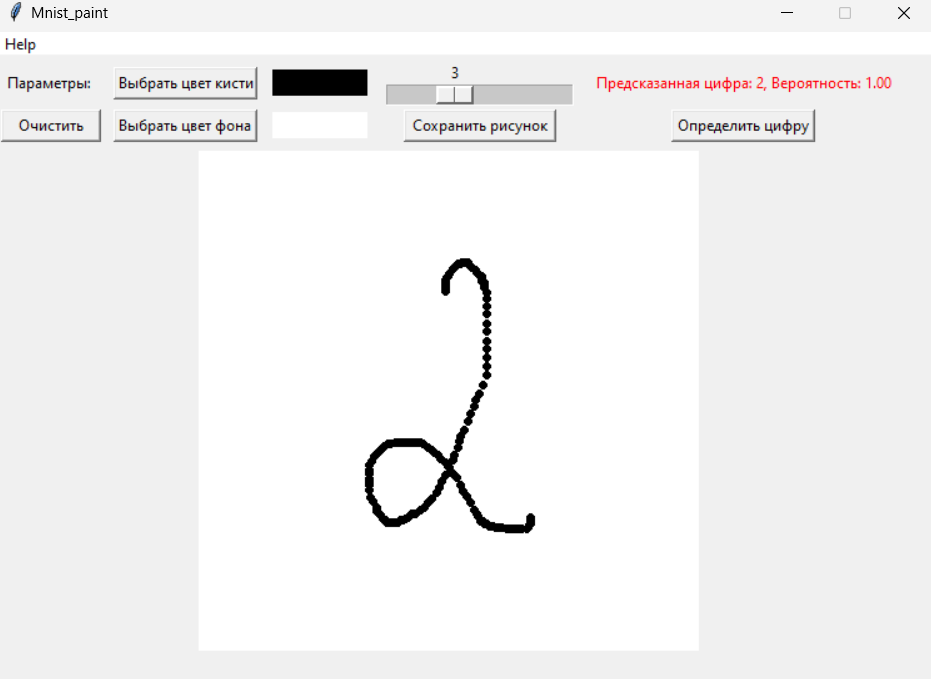
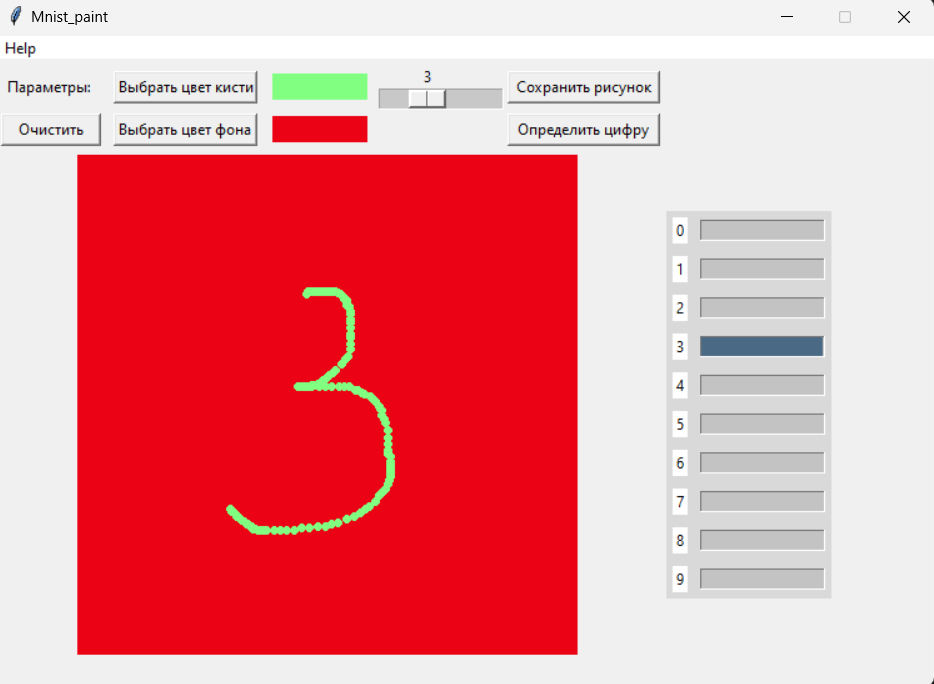
cosmetics

diff --git a/paint.py b/paint.py
@@ -1,5 +1,6 @@
 from tkinter import colorchooser, messagebox
 import tkinter as tk
+from tkinter import ttk
 from PIL import Image, ImageDraw, ImageTk
 from random import randint
 from tensorflow.keras.models import load_model
@@ -18,11 +19,12 @@ class DrawingApp:
         self.root.geometry('750x500')
         self.root.resizable(0, 0)
         root.option_add("*tearOff", False)
+        ttk.Style().theme_use("alt")
 
         self.brush_size = tk.IntVar(value=10)
         self.color = tk.StringVar(value='black')
         self.color_canvas = tk.StringVar(value='white')
-
+        self.progress_bars = []
         self.canvas = tk.Canvas(root, bg='white', width=400, height=400)
         self.canvas.grid(row=2, column=0, columnspan=7, padx=5, pady=5)
         self.canvas.bind('<B1-Motion>', self.draw)
@@ -60,6 +62,22 @@ class DrawingApp:
 
     def init_ui(self):
         tk.Label(self.root, text='Параметры: ').grid(row=0, column=0, padx=6)
+        self.progress_frame = ttk.Frame(self.root)
+        self.progress_frame.grid(row=2, column=7, padx=5, pady=5)
+        for i in range(10):
+            progress_bar = ttk.Progressbar(
+                self.progress_frame, length=100, mode='determinate')
+            progress_bar.grid(row=i, column=4, padx=5, pady=5)
+            progress_bar['value'] = 0
+            progress_bar['maximum'] = 100
+            progress_bar['orient'] = 'horizontal'
+            progress_bar['style'] = 'TProgressbar.Horizontal.TProgressbar'
+            self.progress_bars.append(progress_bar)
+
+        for i in range(10):
+            label = tk.Label(self.progress_frame, text=str(i), bg='white')
+            label.grid(row=i, column=3, padx=5, pady=5)
+            self.progress_bars.append(label)
 
         tk.Button(self.root, text='Выбрать цвет кисти', width=15,
                   command=self.choose_color).grid(row=0, column=1, padx=6)
@@ -74,20 +92,16 @@ class DrawingApp:
         self.color_canvas_lab.grid(row=1, column=2, padx=6)
 
         tk.Scale(self.root, variable=self.brush_size, from_=2, to=5,
-                 command=self.select, orient=tk.HORIZONTAL, length=150).grid(row=0, column=3, padx=6)
+                 command=self.select, orient=tk.HORIZONTAL, length=100).grid(row=0, column=3)
 
         tk.Button(self.root, text='Очистить', width=10,
                   command=self.clear_canvas).grid(row=1, column=0)
 
         tk.Button(self.root, text='Сохранить рисунок', width=16,
-                  command=self.save_image).grid(row=1, column=3)
+                  command=self.save_image).grid(row=0, column=4)
 
-        tk.Button(self.root, text='Определить цифру', width=15,
+        tk.Button(self.root, text='Определить цифру', width=16,
                   command=self.predict_digit).grid(row=1, column=4)
-
-        self.prediction_label = tk.Label(
-            self.root, text="Предсказанная цифра: ")
-        self.prediction_label.grid(row=0, column=4, padx=6)
 
     def draw(self, event):
         brush_size = self.brush_size.get()
@@ -213,23 +227,25 @@ class DrawingApp:
         self.image1.save(filename)
         predicted_digit, max_probability = self.rec_digit(filename)
         if predicted_digit is not None:
-            max_index = np.argmax(max_probability)
-            max_probability = max_probability[max_index]
-            self.prediction_label.config(
-                text=f"Предсказанная цифра: {predicted_digit}, Вероятность: {max_probability:.2f}", fg="red")
+            for i, probability in enumerate(max_probability):
+                normalized_probability = int(probability * 100)
+                self.progress_bars[i]['value'] = normalized_probability
         os.remove(filename)
 
     def clear_canvas(self):
         self.canvas.delete('all')
         self.canvas['bg'] = 'white'
         self.draw_img.rectangle((0, 0, 400, 400), fill='white')
-        self.prediction_label.config(text="Предсказанная цифра: ", fg="black")
         self.color_lab['bg'] = 'black'
         self.color_canvas_lab['bg'] = 'white'
+        self.color = tk.StringVar(value='black')
+        for i in range(10):
+            self.progress_bars[i]['value'] = 0
 
     def save_image(self):
         filename = f'image_{randint(0, 1000)}.png'
-        self.image1.save(filename)
+        with open(filename, 'wb') as f:
+            self.image1.save(f)
         messagebox.showinfo(
             'Сохранение', f'Сохранено под названием {filename}')
 
